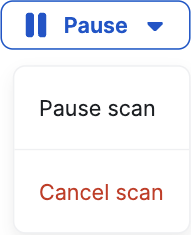
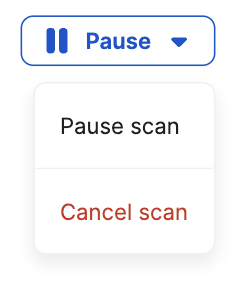
Fix image styles

diff --git a/layouts/shortcodes/image.html b/layouts/shortcodes/image.html
@@ -11,4 +11,5 @@
 {{ $_hugo_config := `{ "version": 1 }` }}
 {{ $src := .Get "src" }}
 {{ $alt := .Get "alt" }}
-<img src="{{ $src }}" alt="{{ $alt }}" class="image-box">
+{{ $class := .Get "class" }}
+<img src="{{ $src }}" alt="{{ $alt }}" class="image-box {{ $class }}">

diff --git a/content/en/Platform Deep Dive/Scans/scans.md b/content/en/Platform Deep Dive/Scans/scans.md
@@ -5,6 +5,17 @@ weight: 15
 description: >
   A scan represents a test run against a specific target
 ---
+<style>
+  .image-box.borderless-image {
+    border: none;
+    border-radius: 0;
+    box-shadow: none;
+    margin: 0 0 20px 0;
+  }
+  .width400 {
+    width: 400px;
+  }
+</style>
 
 ## Statuses
 
@@ -23,17 +34,17 @@ A scan can have the following states:
 - Under Review
 
 To start a scan, you can either **start** it immediately or **schedule** it for a later point in time. This can even be on a [recurring basis].
-{{% image src="/deepdive/scans/scans/StartScan.png" alt="start scan button" %}}
+{{% image src="/deepdive/scans/scans/StartScan.png" alt="start scan button" class="borderless-image" %}}
 
 Initially, a scan will get **queued** while the scanner is waiting for resource allocation. Once the scan has the required resources, it will show up as **Running**.
 
 A running scan can either be **paused** or **canceled**. Canceling a scan will finish all of its sub-processes and won't allow the scan to be spun up again. 
 
-{{% image src="/deepdive/scans/scans/PauseScan.png" alt="pause scan button" %}}
+{{% image src="/deepdive/scans/scans/PauseScan.png" alt="pause scan button" class="borderless-image" %}}
 
 If you want to still have the option to **resume** a scan later on, use the pausing functionality. Once paused, a scan will stay in this state for up to 7 days, after which it will get canceled automatically. A paused scan can also be canceled directly, if needed.
 
-{{% image src="/deepdive/scans/scans/ResumeScan.png" alt="resume scan button" %}}
+{{% image src="/deepdive/scans/scans/ResumeScan.png" alt="resume scan button" class="borderless-image" %}}
 
 Once the scan is finished, it will either move to a **completed** or **failed** state. A completed scan represents a successful test run. On the other hand, a failed scan signals that there's been a problem during the test execution. To find out exactly what went wrong, you can review the progress tracker on the scan's details page.
 
@@ -41,7 +52,7 @@ If some vulnerabilities need to be manually confirmed, the scan will show as **U
 
 ## Components
 
-{{% image src="/deepdive/scans/scans/PausedComponents.png" alt="paused scan components" %}}
+{{% image src="/deepdive/scans/scans/PausedComponents.png" alt="paused scan components" class="borderless-image" %}}
 
 A scan is subdivided into 3 components that partially overlap each other:
 1. Fingerprinting: Identifies the technologies used on the target. Examples: React or Cloudflare.
@@ -57,27 +68,27 @@ Each component will have its own progress bar to provide quick visual feedback.
 Aside from the bars filling up as each component progresses, the color of the bar may change as well to reflect its state:
 - Light grey: The specific component hasn't started yet or the whole scan is paused.
 
-{{% image src="/deepdive/scans/scans/LightGreyProgressBar.png" alt="light grey progress bar" width="400px" %}}
+{{% image src="/deepdive/scans/scans/LightGreyProgressBar.png" alt="light grey progress bar" class="borderless-image width400" %}}
 
 - Blue: The component has started and is making progress.
 
-{{% image src="/deepdive/scans/scans/BlueProgressBar.png" alt="blue progress bar" width="400px" %}}
+{{% image src="/deepdive/scans/scans/BlueProgressBar.png" alt="blue progress bar" class="borderless-image width400" %}}
 
 - Green: The component has successfully completed its duty.
 
-{{% image src="/deepdive/scans/scans/GreenProgressBar.png" alt="green progress bar" width="400px" %}}
+{{% image src="/deepdive/scans/scans/GreenProgressBar.png" alt="green progress bar" class="borderless-image width400" %}}
 
 - Red: The component failed. Whenever this occurs, details will show below the progress bar.
 
-{{% image src="/deepdive/scans/scans/RedProgressBar.png" alt="red progress bar" width="400px" %}}
+{{% image src="/deepdive/scans/scans/RedProgressBar.png" alt="red progress bar" class="borderless-image width400" %}}
 
 - Yellow: The component didn't fail but there's potential for improvement, since it didn't run optimally. Details will show below the progress bar.
 
-{{% image src="/deepdive/scans/scans/YellowProgressBar.png" alt="yellow progress bar" width="400px" %}}
+{{% image src="/deepdive/scans/scans/YellowProgressBar.png" alt="yellow progress bar" class="borderless-image width400" %}}
 
 - Dark grey: The whole scan has been canceled.
 
-{{% image src="/deepdive/scans/scans/DarkGreyProgressBar.png" alt="dark grey progress bar" width="400px" %}}
+{{% image src="/deepdive/scans/scans/DarkGreyProgressBar.png" alt="dark grey progress bar" class="borderless-image width400" %}}
 
 
 
